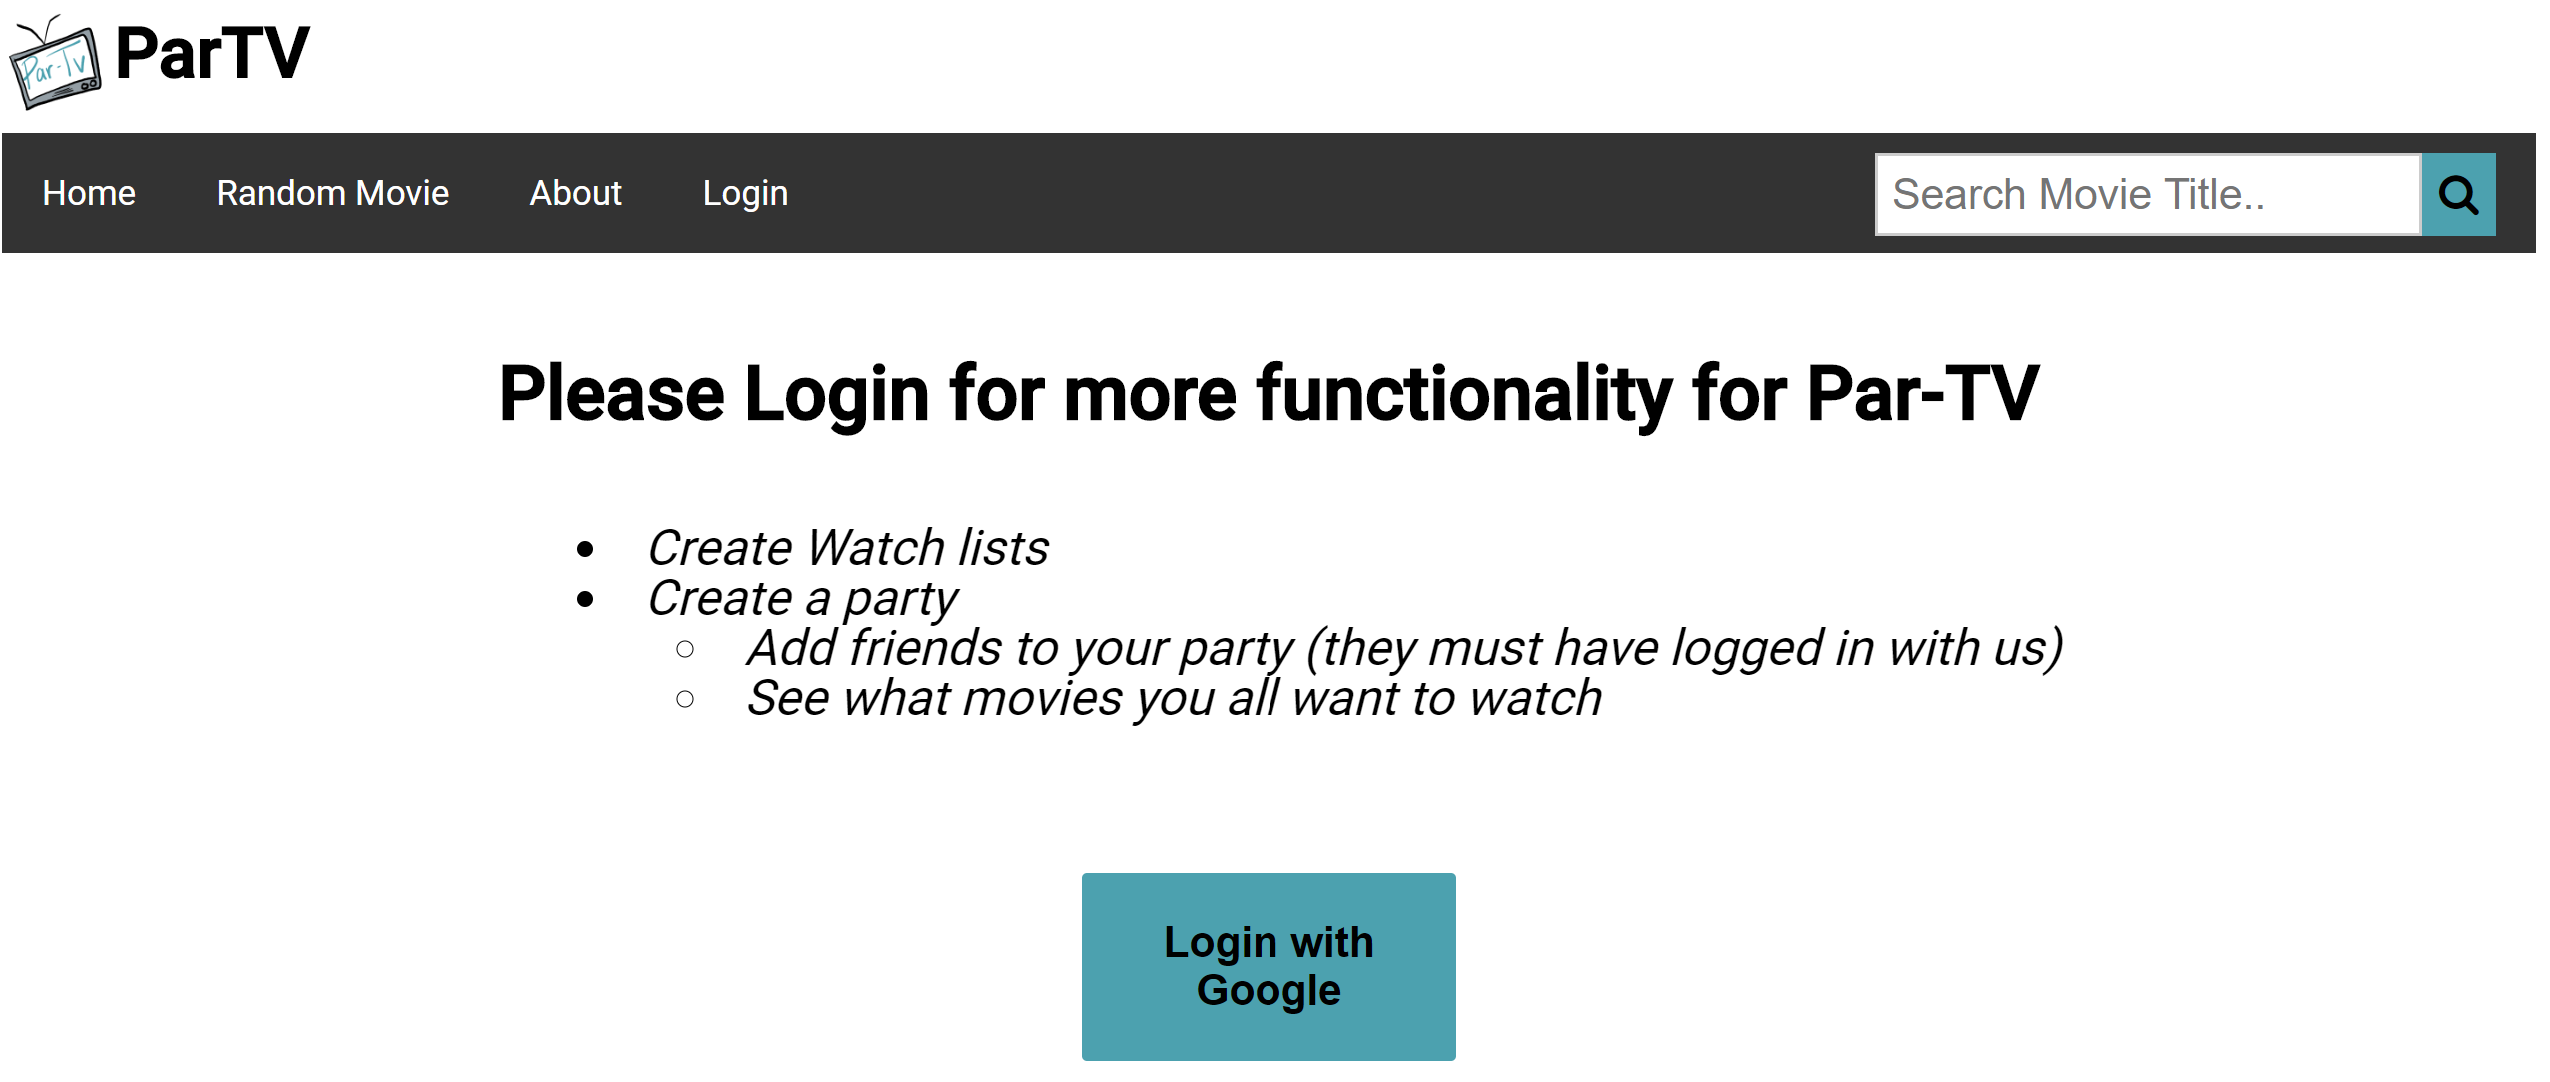
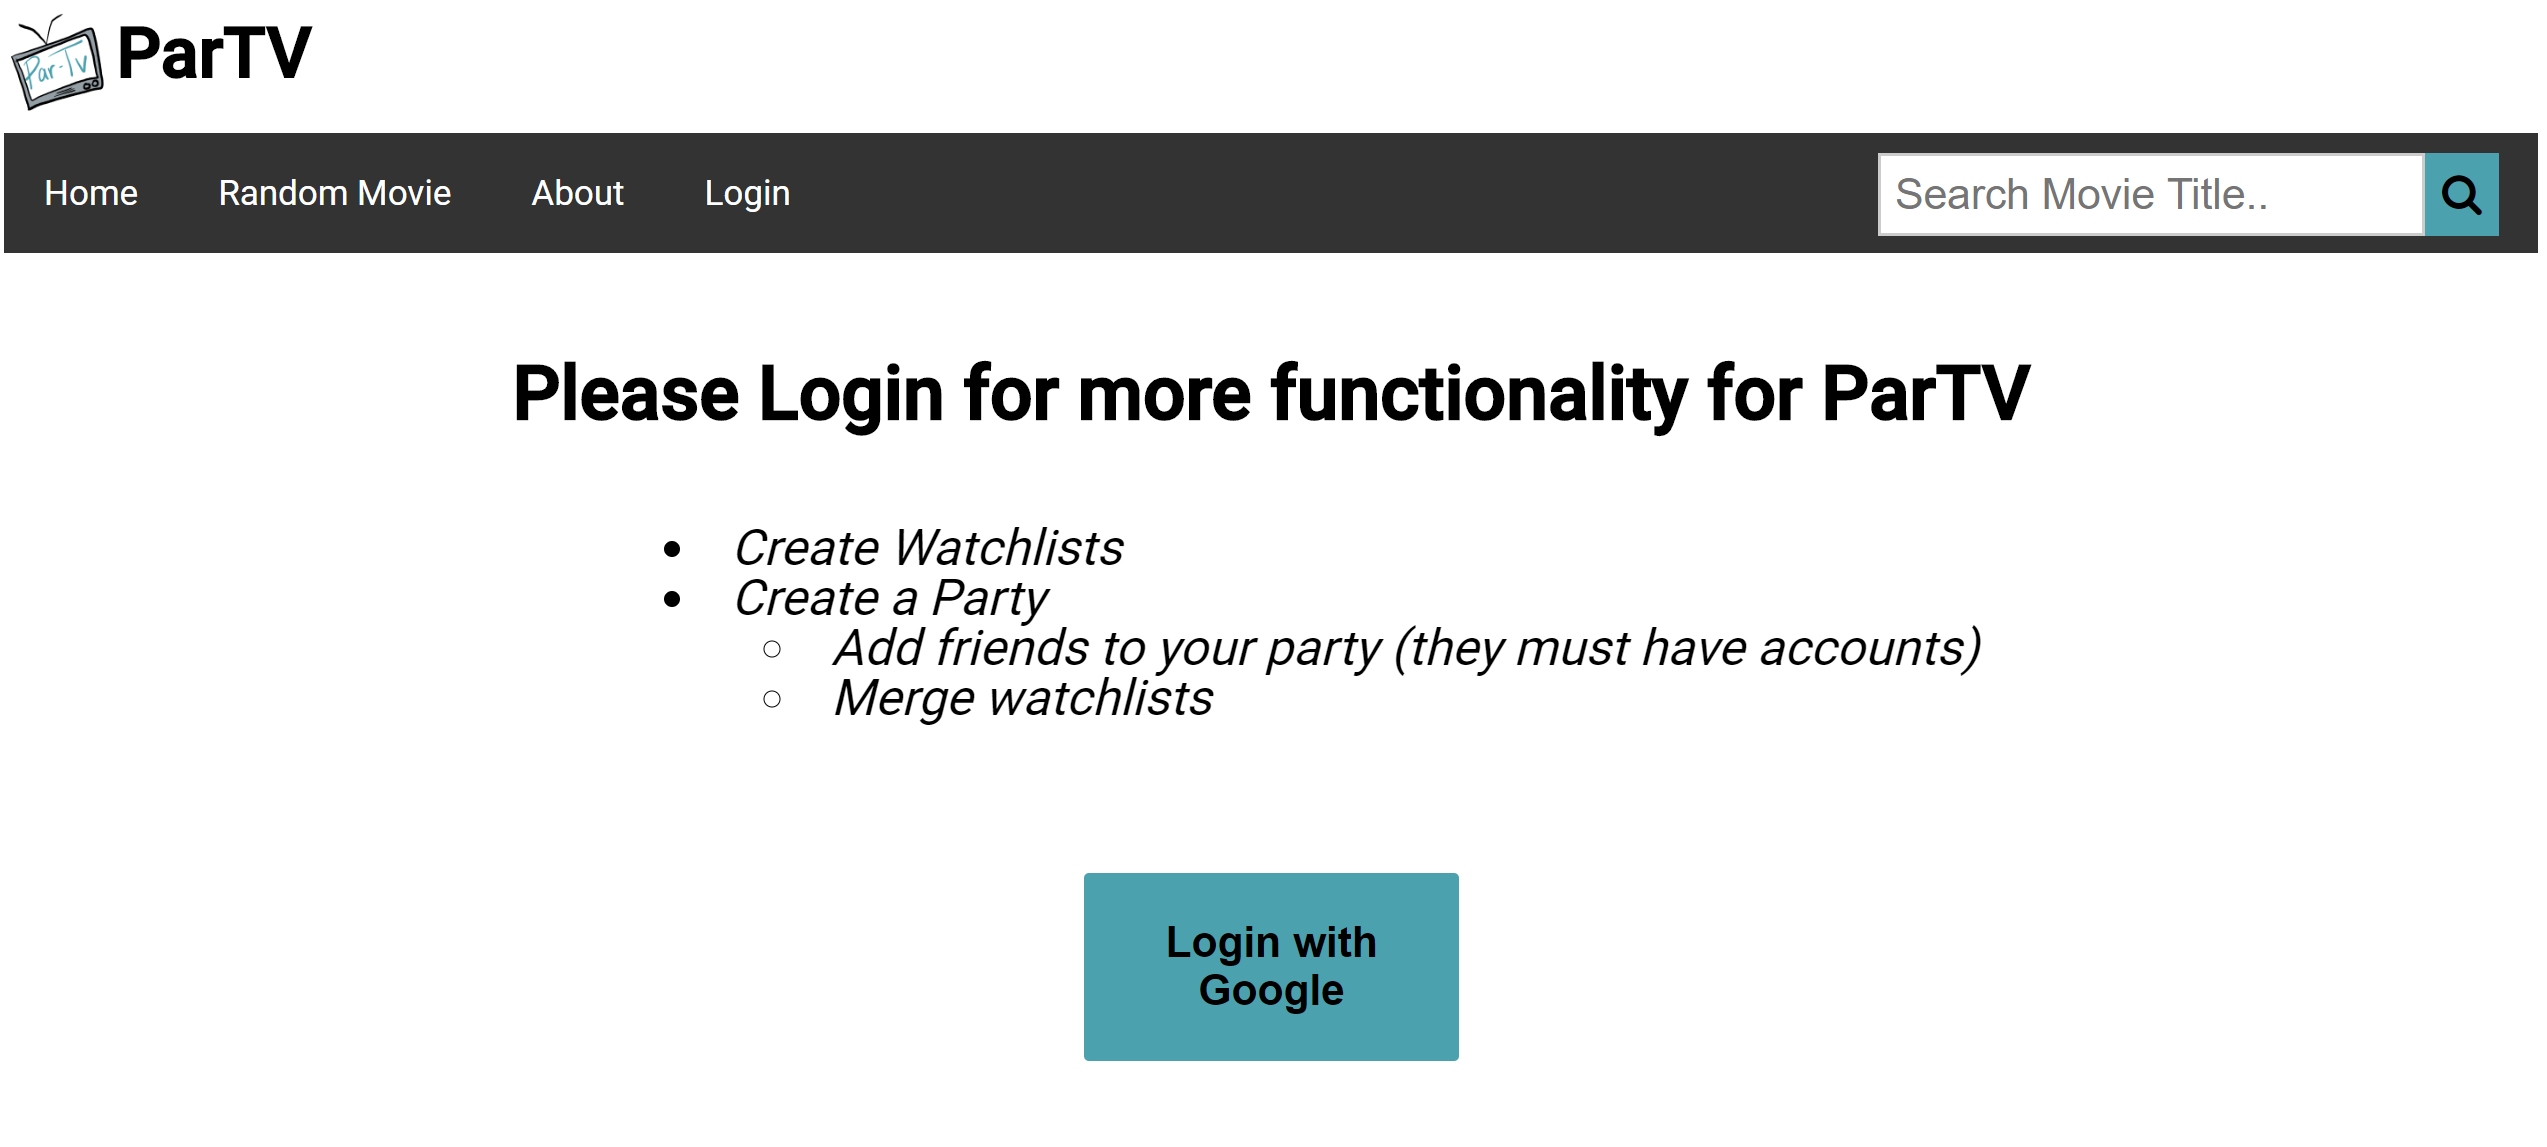
styling changes

diff --git a/src/app/login-page/login-page.component.html b/src/app/login-page/login-page.component.html
@@ -1,16 +1,16 @@
 <div *ngIf="auth.user$ | async as user; else login">
   <div class="body">
     <div class = "push"></div>
-    <h1> Welcome to Par-TV, {{user.displayName}}</h1>
+    <h1> Welcome to ParTV, {{user.displayName}}</h1>
     <div class = "push"></div>
     <div class = "list">
       <p>You can now..</p>
       <ul>
-        <li>Create Watch lists</li>
-        <li>Create a party
+        <li>Create Watchlists</li>
+        <li>Create a Party
           <ul>
-            <li>Add friends to your party (they must have logged in with us)</li>
-            <li>See what movies you all want to watch</li>
+            <li>Add friends to your party (they must have accounts)</li>
+            <li>Merge watchlists</li>
           </ul>
         </li>
       </ul>
@@ -23,14 +23,14 @@
 <ng-template #login>
   <div class="body">
     <div class = "push"></div>
-    <h1> Please Login for more functionality for Par-TV</h1>
+    <h1> Please Login for more functionality for ParTV</h1>
     <div class = "list">
     <ul>
-      <li>Create Watch lists</li>
-      <li>Create a party
+      <li>Create Watchlists</li>
+      <li>Create a Party
         <ul>
-          <li>Add friends to your party (they must have logged in with us)</li>
-          <li>See what movies you all want to watch</li>
+          <li>Add friends to your party (they must have accounts)</li>
+          <li>Merge watchlists</li>
         </ul>
       </li>
     </ul>

diff --git a/src/index.html b/src/index.html
@@ -2,7 +2,7 @@
 <html lang="en">
   <head>
     <meta charset="utf-8" />
-    <title>Par-TV</title>
+    <title>ParTV</title>
     <link rel="icon" href="assets/lbicon.png" type="image/icon type">
     <base href="/" />
     <meta name="viewport" content="width=device-width, initial-scale=1" />

diff --git a/README.md b/README.md
@@ -51,6 +51,11 @@
 - Clicking Randomize will bring you to the Movie Page of the corresponding movie.
 <img src="./src/assets/screenshots/random_example.png" >
 
+### Search Movie
+- You can search movies by name and ParTV will send the movies that match your keywords.
+- Example: Searching keyword "harry"
+<img src="./src/assets/screenshots/search_example.png" >
+
 ### Create A Party
 - Only works if you are logged in.
 - The other users you want to create a party with must have an account & watchlists with ParTV
